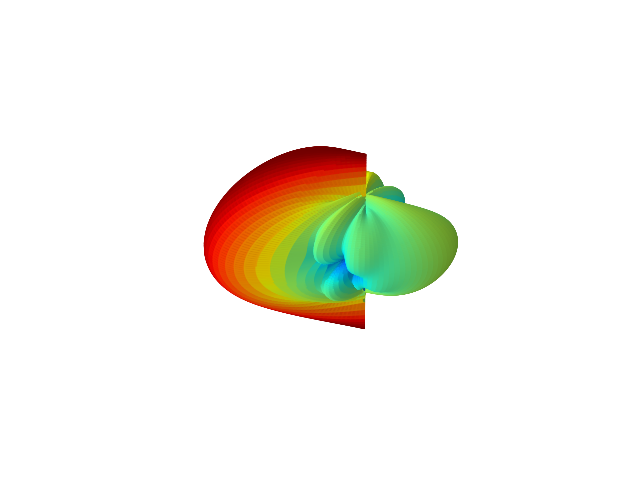
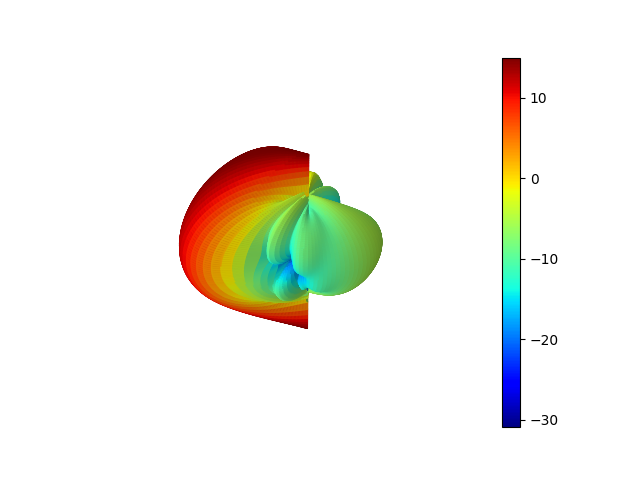
legend added

Changed region(s): [[0.2812, 0.2812, 0.7188, 0.6875], [0.7812, 0.0938, 0.875, 0.9062]]

diff --git a/python/grapher.py b/python/grapher.py
@@ -9,6 +9,7 @@ import  numpy as np
 import matplotlib.pyplot as plt
 from matplotlib import colors
 from mpl_toolkits.mplot3d import Axes3D
+import matplotlib.cm as cm
 
 if __name__ == "__main__":
     if len(sys.argv) > 1:
@@ -68,13 +69,17 @@ del PHI, THETA
 fig = plt.figure()
 ax=fig.add_subplot(111, projection='3d')
 
-ax.plot_surface(Xs,Ys,Zs,rstride=1, cstride=1,
+plot = ax.plot_surface(Xs,Ys,Zs,rstride=1, cstride=1,
     facecolors=cmap(norm(GAIN)),
     linewidth=1, antialiased=True,shade=True, alpha=0.9,edgecolors='#000000')
+
+m = cm.ScalarMappable(cmap=cm.jet)
+m.set_array(GAIN)
+
 
 ax.grid(False)
 ax.set_axis_off()
 
-
+plt.colorbar(m)
 plt.savefig('../pics/out.png')
 plt.show()
